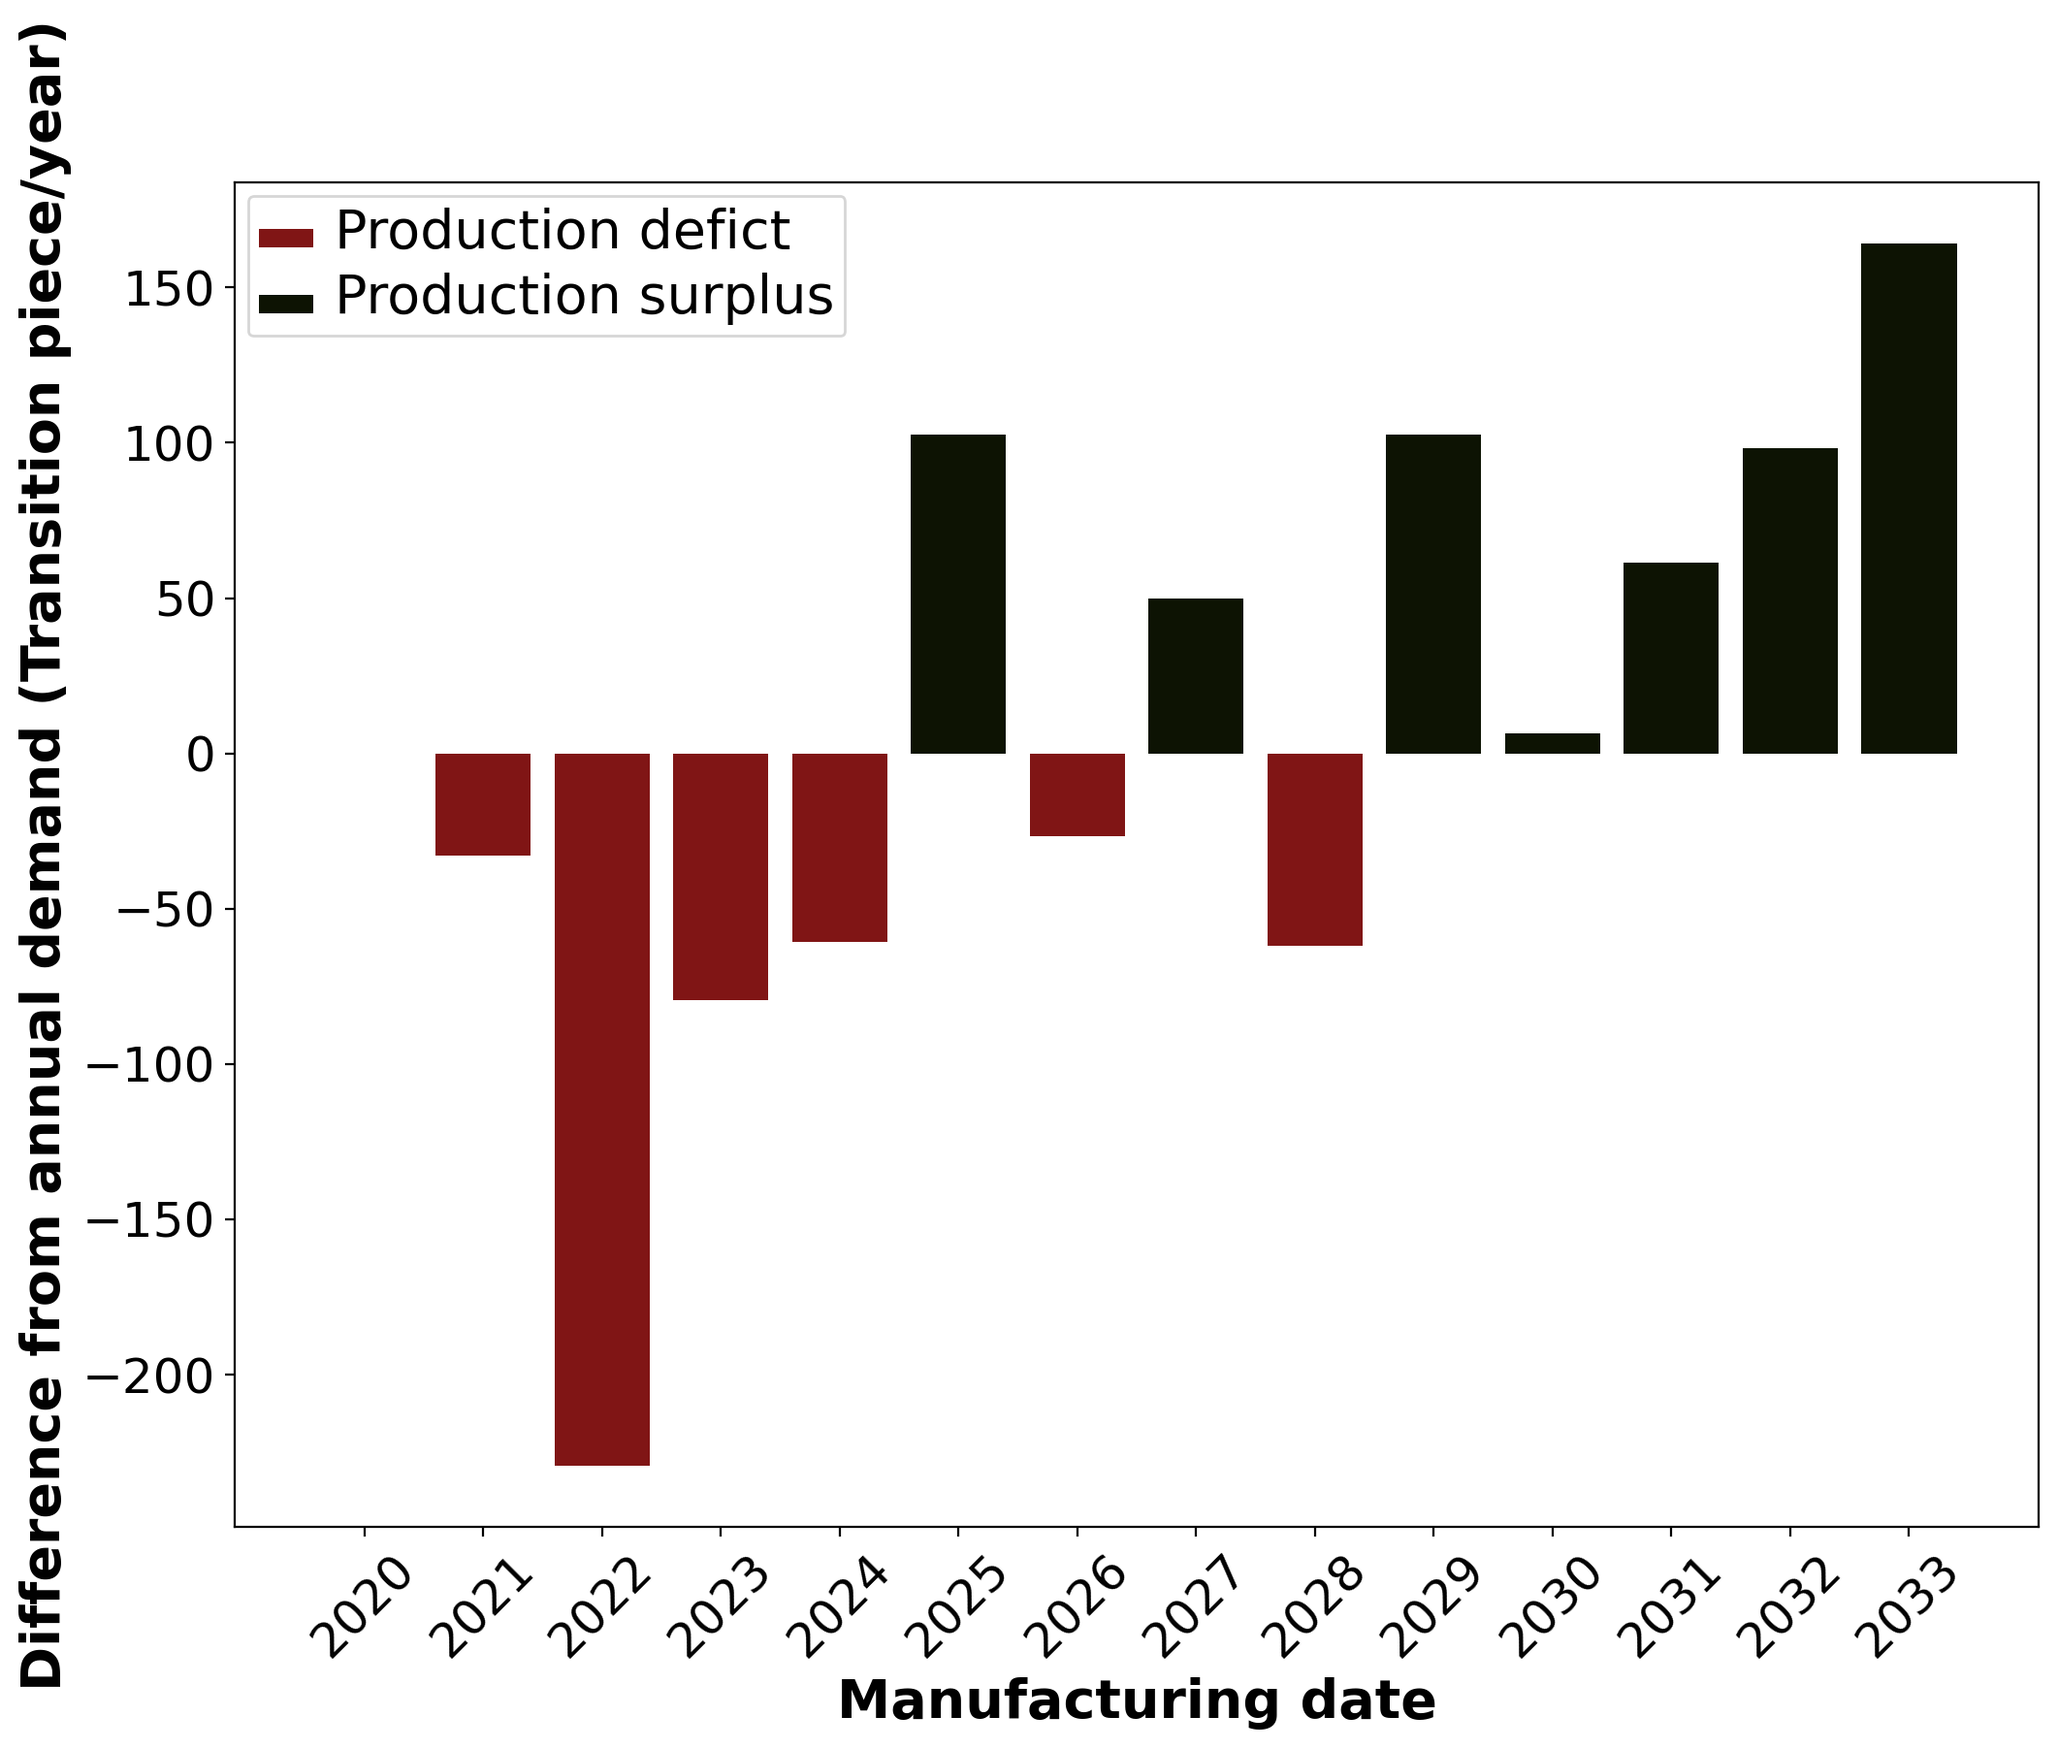
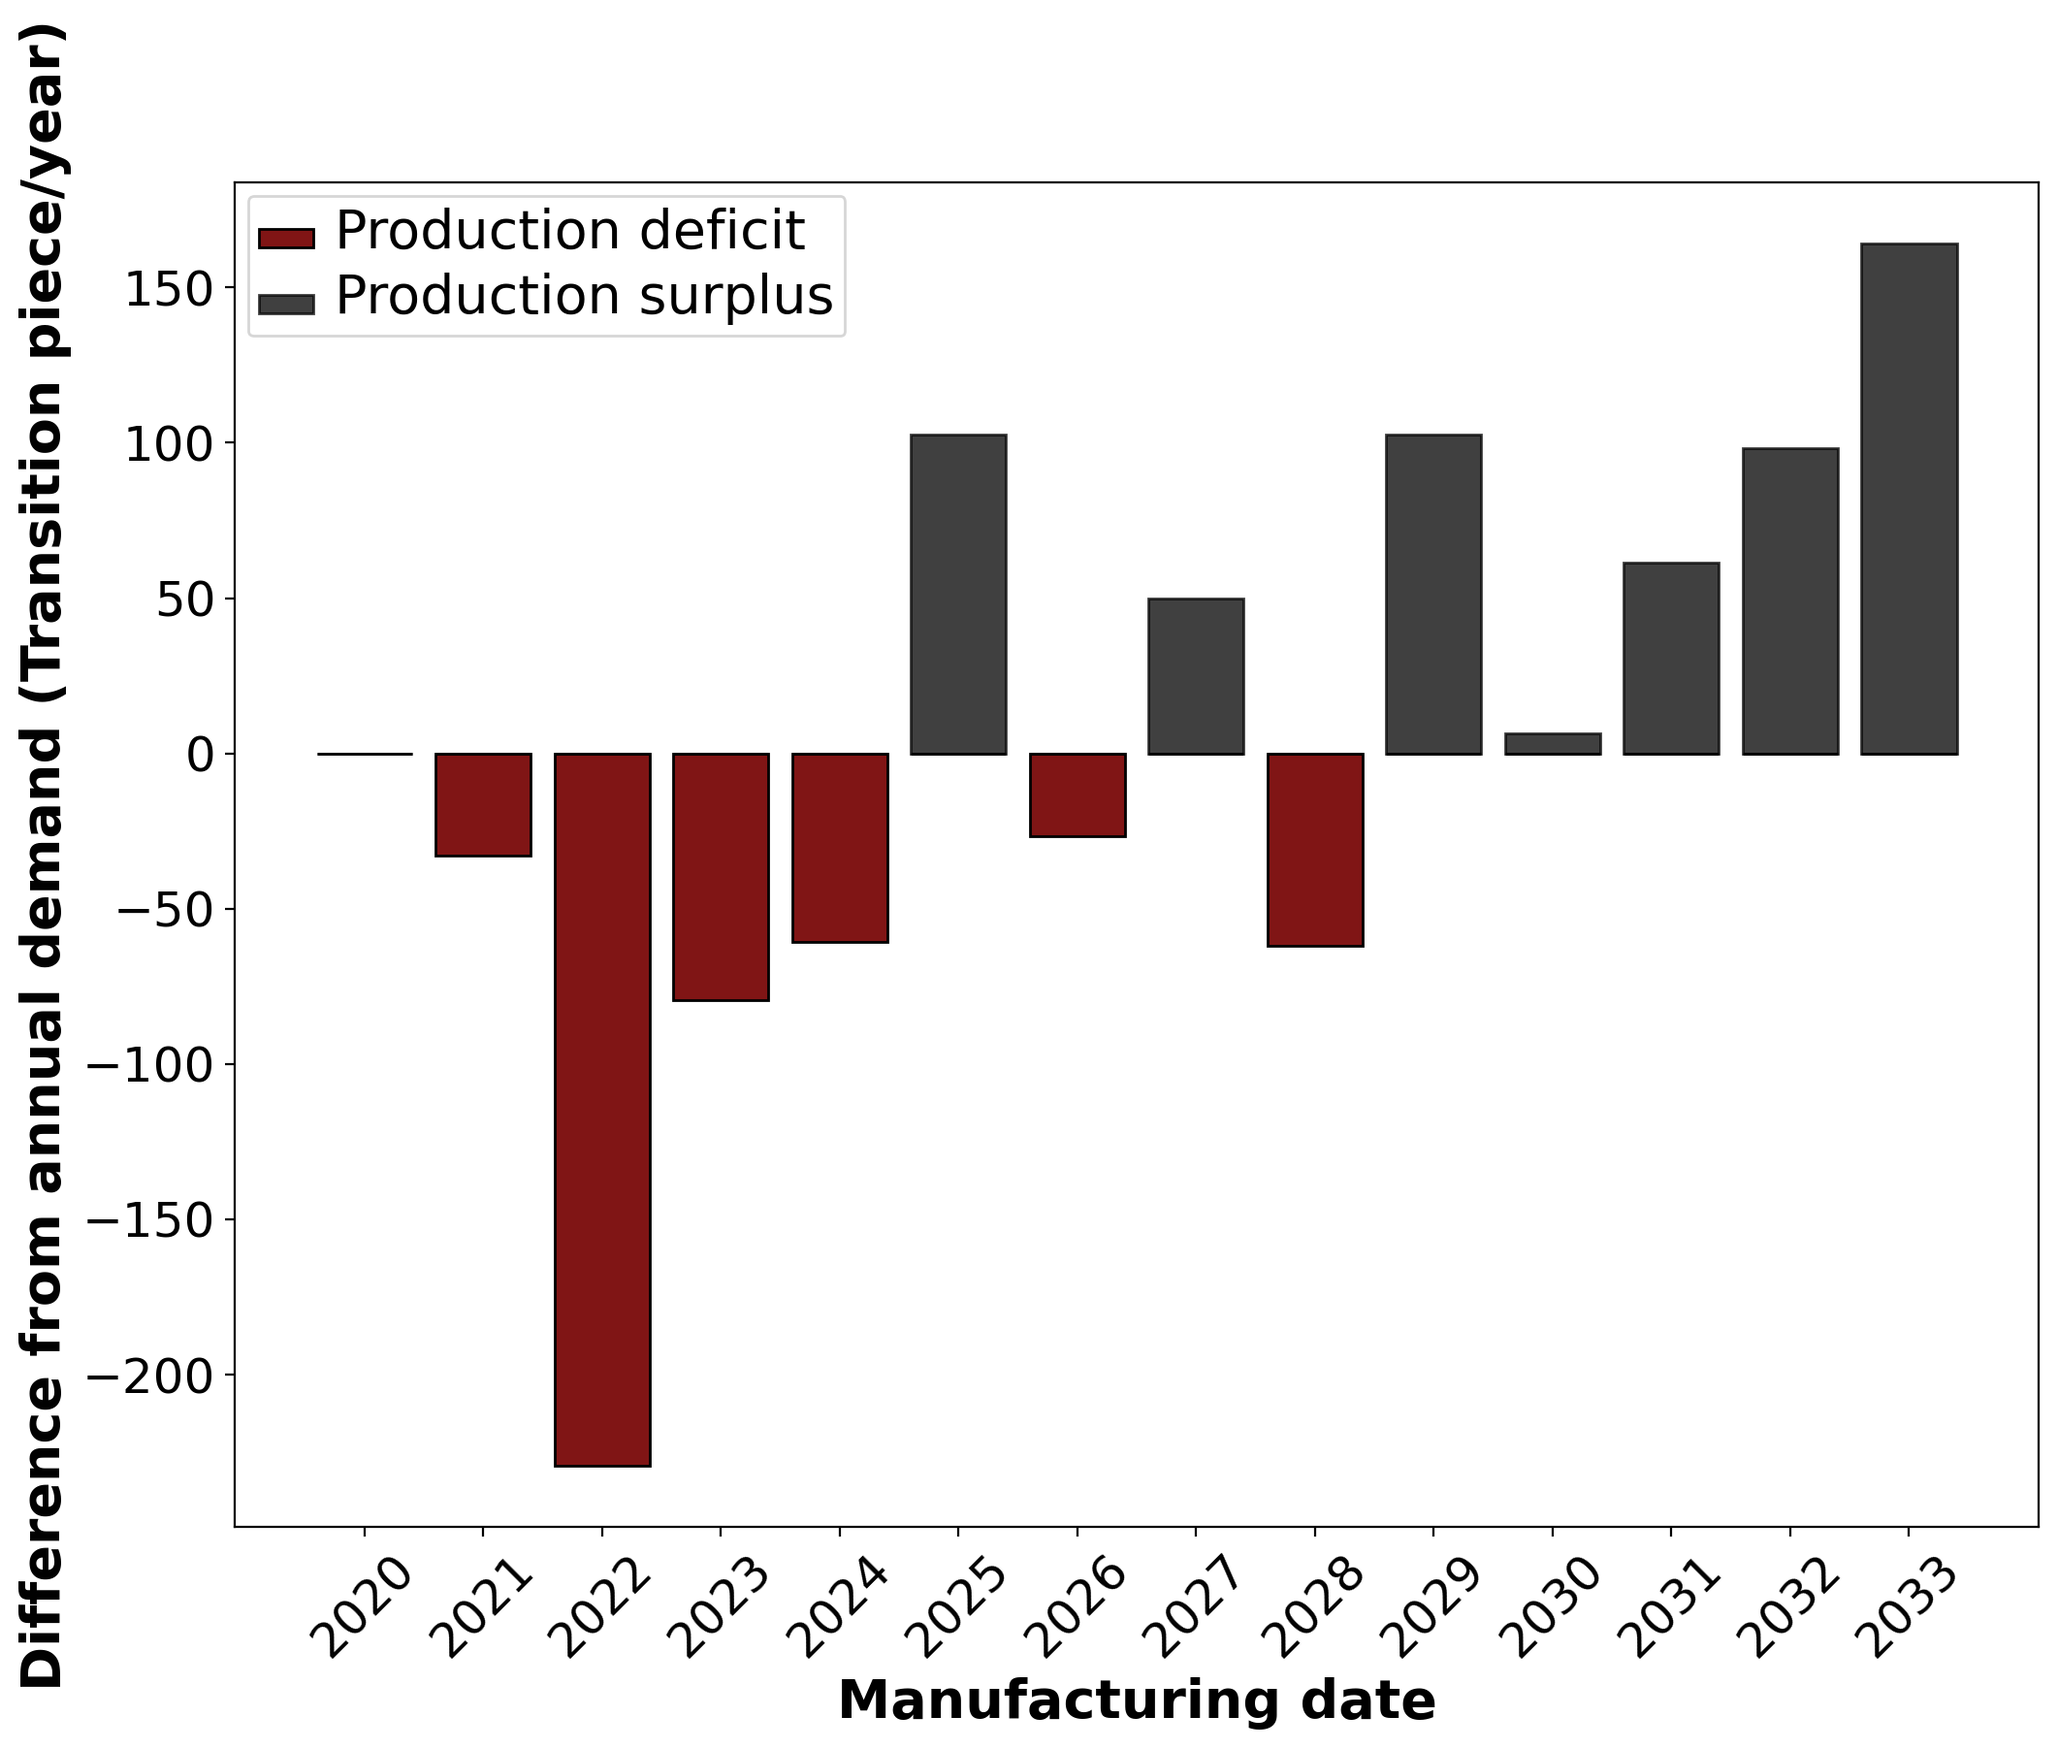
Updated scenarios to match demand better

diff --git a/plot_routines.py b/plot_routines.py
@@ -166,8 +166,8 @@ def plot_diff(x, y, ylabel, color, fname):
     yneg = [i if i<0 else 0 for i in y]
     ypos = [i if i>0 else 0 for i in y]
 
-    ax.bar(x, yneg, color=color['Deficit'], edgecolor='k', label='Production defict')
-    ax.bar(x, ypos, color=color['Surplus'], edgecolor='k', label='Production surplus')
+    ax.bar(x, yneg, color=color['Deficit'], edgecolor='k', label='Production deficit')
+    ax.bar(x, ypos, color=color['Surplus'], edgecolor='k', alpha=0.75, label='Production surplus')
 
     ax.set_xticks(x)
     ax.set_xticklabels(ax.get_xticks(), rotation=45)
@@ -259,7 +259,7 @@ def plot_num_facilities(components, y1, y2, color_list, fname=None):
     scenario_vals = list(scenario.values())
 
     ax.bar(components, announced_vals, color=color_list['Announced'], edgecolor='k', label='Announced')
-    ax.bar(components, scenario_vals, color=color_list['Scenario'],  edgecolor='k', bottom=announced_vals, label='Scenario')
+    ax.bar(components, scenario_vals, color=color_list['Scenario'],  edgecolor='k', bottom=announced_vals, label='Additional required')
 
     xlabels = [label_map[c] for c in components]
 

diff --git a/helpers.py b/helpers.py
@@ -77,7 +77,7 @@ color_list = {
     'Announced': '#5D63AA',
     'Scenario': '#2F8B6F',
     'Deficit': '#801515',
-    'Surplus': '#0D1303',
+    'Surplus': 'k',
     # Color scheme for jobs: Hue 278, RBG 4D249B Dist 159
     'Design and engineering': '#29086B',
     'Quality and safety': '#8D76B9',
